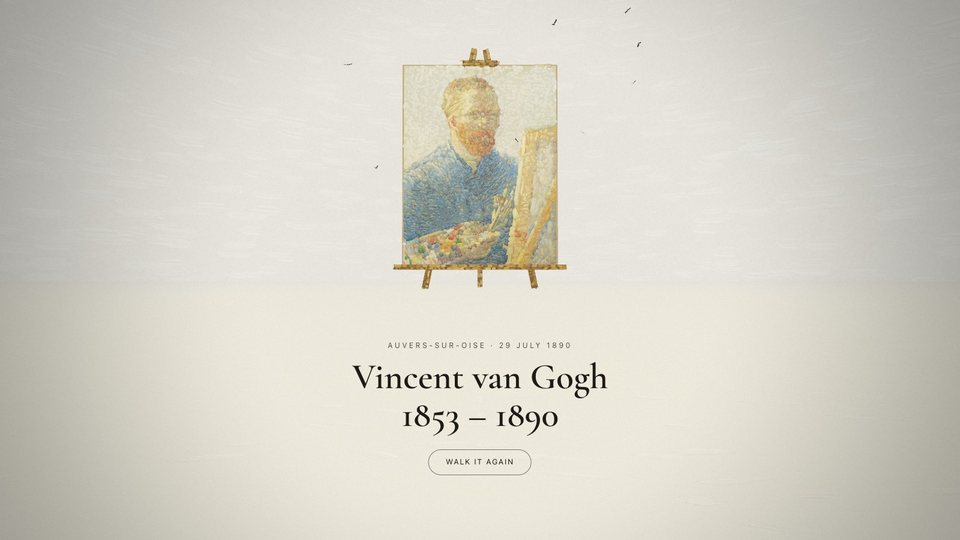
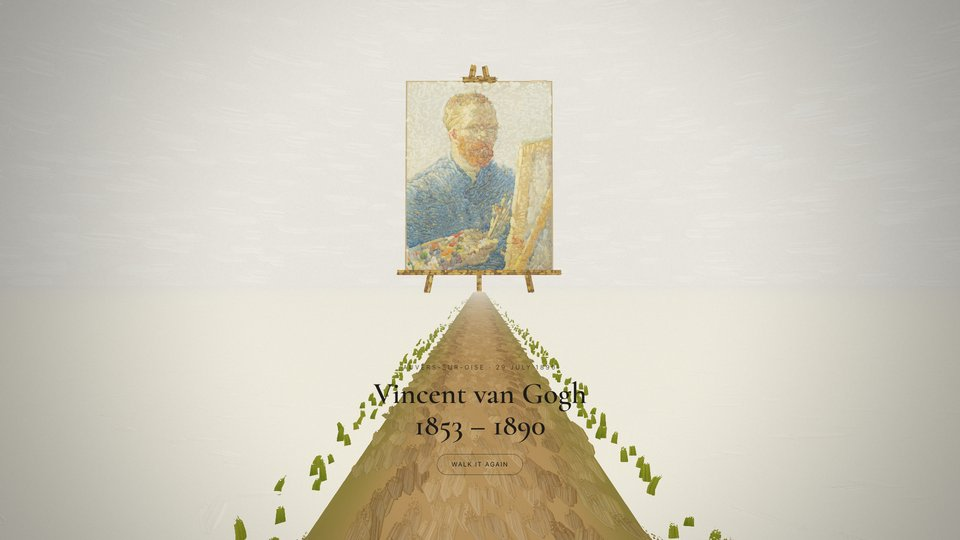
After M9: the road to him
The charcoal dashes to the portrait read as a trail of tar, not a way
to go. On the author's word there is a real road instead: the road of
the last field no longer dwindles into the bare canvas but goes on
across it, and from where the walk on its own stops it runs straight
on along its own line, where the easel already stood, to a round end
under the canvas. It is the ground's road, drawn as every station's
is: earth with worn marks, olive at its edges, a fringe of grass, and
bare canvas on either side. The dashes are taken out, and the frame of
the end in the README is shot again with the road in it.

Changed region(s): [[0.2812, 0.0889, 0.75, 1.0], [0.2188, 0.9481, 0.2812, 1.0]]

diff --git a/src/scenes.js b/src/scenes.js
@@ -2,7 +2,7 @@
 // in blossom, haystacks, the Yellow House, the café terrace and the gaslit
 // Rhône, the red vineyard, the cypress under the Starry Night, the church at
 // Auvers -- and at each station an easel, where his painting of the place will
-// paint itself. Past the end of the road there is one more easel, as tall as a
+// paint itself. At the end of the road there is one more easel, as tall as a
 // church tower, for his portrait.
 import * as THREE from 'three';
 import { StrokeBuilder, CoreBuilder } from './strokes.js';
@@ -323,10 +323,10 @@ function easelsAt(c, list) {
 }
 
 // ------------------------------------------------------------------ the coda --
-// His portrait at the end of the road. It stands past where the road runs out, beyond the bare canvas of the last
-// station, on the easel every station has, grown to hold a canvas as tall as a church tower. It is turned to face
-// the place where the walk on its own stops, and its timbers are the ochres of the easel in the portrait. It is a
-// mesh of its own, not the station's, because canvases.js says when it is there.
+// His portrait at the end of the road. It stands where the road ends, across the bare canvas of the last station, on
+// the easel every station has, grown to hold a canvas as tall as a church tower. It is turned to face the place where
+// the walk on its own stops, and its timbers are the ochres of the easel in the portrait. It is a mesh of its own,
+// not the station's, because canvases.js says when it is there.
 const EASEL = P(['#b8904e', '#a8844e', '#c8a060', '#9c7c4a', '#b89660', '#d0b078', '#8a6a40']);
 const EASEL_LIT = P(['#e0c488', '#e8d4a0', '#d8bc7c']), EASEL_CORE = lin('#6a5032');
 
@@ -356,8 +356,8 @@ function coda(c, cv) {
   const R = c.R, slug = cv.blob.split('/').pop().replace('-canvas.bin', '');
   const [rw, rh] = SIZES[slug] || [0.4945, 0.651];
   const H = cv.height, W = H * rw / rh, k = H / 2.3, ledge = 4, hw = 0.55;
-  // where the walk on its own stops, and which way it is looking there
-  const zv = J.ZEND + 4, xv = c.rx(zv), yv = Math.atan2(-J.roadSlope(zv), 1);
+  // where the walk on its own stops, and which way it is looking there: the way the road goes on, straight
+  const zv = J.ZSTRAIGHT, xv = c.rx(zv), yv = Math.atan2(-J.roadSlope(zv), 1);
   const z = zv - cv.beyond, x = xv + Math.tan(yv) * cv.beyond, yaw = Math.atan2(xv - x, zv - z);
   const cy = Math.cos(yaw), sy = Math.sin(yaw), nrm = [sy, 0, cy], right = [cy, 0, -sy];
   const b = c.gy(x, z), top = ledge + H + 0.3 * k;
@@ -375,26 +375,12 @@ function coda(c, cv) {
     const p = at(u, 0, v);
     c.colliders.push({ x: p[0], z: p[2], r: hw + 0.5 });
   }
-  // The line to him. The piece began on bare canvas with one charcoal line going forward, and the road dwindles to
-  // nothing coming onto this canvas; from where it does, the line goes on, along the road's own way to where the
-  // road ends and then straight to the foot of the easel, in short dashes laid by hand. It is the easel's, so it
-  // is there when the easel is, and it draws itself out towards him while the timbers stand up.
-  const foot = [x + nrm[0] * 7, z + nrm[2] * 7], way = [];
-  for (let zz = c.z0 - 2; zz > zv; zz -= 0.85) way.push([c.rx(zz), zz]);
-  const L = Math.hypot(foot[0] - xv, foot[1] - zv);
-  for (let t = 0; t < L; t += 0.85) way.push([xv + (foot[0] - xv) * t / L, zv + (foot[1] - zv) * t / L]);
-  const ink = P(['#3a3532', '#46403c', '#2e2a28']);
-  way.forEach(([px, pz], i) => {
-    if (i + 1 >= way.length || R() < 0.14) return;
-    const [qx, qz] = way[i + 1], d = norm3([qx - px, 0, qz - pz]), side = R.range(-0.05, 0.05);
-    const m = [(px + qx) / 2 - d[2] * side, c.gy((px + qx) / 2, (pz + qz) / 2) + 0.03, (pz + qz) / 2 + d[0] * side];
-    st.S.add(m, d, [0, 1, 0], R.range(0.45, 0.6), R.range(0.1, 0.13), jitter(R.pick(ink), R, 0.06),
-      { bend: R.range(-0.12, 0.12), order: 0.04 + 0.6 * i / way.length + R() * 0.02 });
-  });
   c.stand = st;
+  // the road runs on to it, straight, and ends under the canvas (the ground draws it; see journey.js)
   c.easels.push({ slug, blob: cv.blob, under: cv.blob.replace('.bin', '-under.png'), title: cv.title, date: cv.date,
     collection: cv.collection, key: `${c.i}-coda`, x, y: b + ledge + H / 2, z, yaw, w: W, h: H, station: c.i,
-    lift: 40, edge: k, grain: 0, gain: 1.1, stand: st, coda: { hold: cv.hold, paint: cv.paint, approach: cv.approach ?? 1, easel: 6, haze: 0.12, foot: 7 } });
+    lift: 40, edge: k, grain: 0, gain: 1.1, stand: st,
+    coda: { hold: cv.hold, paint: cv.paint, approach: cv.approach ?? 1, easel: 6, haze: 0.12, foot: 7, road: z } });
 }
 
 function haystack(c, x, z, R0 = 2.2, H = 3.2, o = {}) {

diff --git a/src/ground.js b/src/ground.js
@@ -49,7 +49,8 @@ const TERRAIN_FRAG = /* glsl */`
     float s = vS;
     float d = roadDist(p), rw = ROADW(s);
     vec3 c = vBase;
-    if (d < rw && WATER(s) * step(0.5, (roadX(p.y) - 13.0) - p.x) < 0.5) c = mix(ROAD(s), ROADEDGE(s), smoothstep(rw * 0.5, rw, d));
+    float road = d < rw && WATER(s) * step(0.5, (roadX(p.y) - 13.0) - p.x) < 0.5 ? 1.0 : 0.0;
+    if (road > 0.5) c = mix(ROAD(s), ROADEDGE(s), smoothstep(rw * 0.5, rw, d));
     float n = vnoise(p * 1.3) * 0.5 + vnoise(p * 0.37 + 7.0) * 0.5;
     c *= 0.84 + 0.26 * n;
     vec2 rel = p - uCam.xz; float rr = length(rel);
@@ -57,7 +58,8 @@ const TERRAIN_FRAG = /* glsl */`
       float sweep = vnoise(vec2(atan(rel.y, rel.x) * 70.0, log(rr + 1.0) * 10.0)) * 0.6 + vnoise(vec2(atan(rel.y, rel.x) * 150.0, log(rr + 1.0) * 23.0)) * 0.4;
       c *= mix(1.0, 0.72 + 0.56 * sweep, smoothstep(22.0, 70.0, rr));
     }
-    c = mix(c, LINEN, BARE(s));
+    // the bare canvas past the last field is bare but for the road, which goes on across it to his portrait
+    c = mix(c, LINEN, BARE(s) * (1.0 - road));
     if (uIntro < 1.0) c = mix(c, LINEN * (0.94 + 0.08 * n), smoothstep(pow(uIntro, 1.6) * 460.0 - 18.0, pow(uIntro, 1.6) * 460.0, rr));
     vec3 V = normalize(uCam - vP);
     vec3 col = paintShade(c, normalize(vN), V, vP, 0.0);
@@ -103,7 +105,9 @@ const BLADE_VERT = /* glsl */`
     }
     float cob = plaza * COBBLE(s);
     if (cob > 0.35) kind = -1.0;
-    if (fract(h.w * 13.7) < BARE(s)) kind = -1.0;
+    // on the bare canvas nothing grows but a fringe of grass along the road
+    float fringe = 1.0 - smoothstep(rw + 0.24, rw + 0.6, d);
+    if (fract(h.w * 13.7) < BARE(s) * (1.0 - 0.7 * fringe)) kind = -1.0;
     if (unrevealed(p, cam, h.w)) kind = -1.0;
     if (kind < 0.0 || fade < 0.01) { gl_Position = vec4(0.0, 0.0, 2.0, 1.0); return; }
     float r2 = fract(h.w * 7.31 + h.x * 3.7), r3 = fract(h.y * 5.3 + h.z * 1.9);
@@ -169,8 +173,10 @@ const FLAT_VERT = /* glsl */`
     if (uInner > 0.0) fade *= smoothstep(uInner * 0.75, uInner, cheb);
     float s = stationAt(p.y);
     float d = roadDist(p), rw = ROADW(s);
-    float bare = BARE(s);
-    if (fract(h.w * 17.3) < bare * 0.9 || fade < 0.01 || unrevealed(p, cam, h.z)) { gl_Position = vec4(0.0, 0.0, 2.0, 1.0); return; }
+    // on the bare canvas the marks are the canvas's own, few and the colour of the linen, and none lies across the
+    // road, whose marks are the road's
+    float bare = BARE(s) * step(rw, d), edge = 1.0 - step(rw + 0.42 * uScale, d);
+    if (fract(h.w * 17.3) < bare * (0.9 + 0.1 * edge) || fade < 0.01 || unrevealed(p, cam, h.z)) { gl_Position = vec4(0.0, 0.0, 2.0, 1.0); return; }
     vec4 crop = crops(p, s);
     float plaza = plazaMask(p, s), river = riverMask(p, s);
     vec2 dir; vec3 c; float emit = 0.0;
@@ -234,7 +240,9 @@ const FLAT_VERT = /* glsl */`
     vP = vec3(q.x, y, q.y);
     vT3 = vec3(dir.x, 0.0, dir.y); vB3 = vec3(side.x, 0.0, side.y);
     vST = aUV; vRow = floor(h.w * 7.99);
-    vCol = c; vCol2 = mix(c, C2(s) * 1.2, 0.35); vEmit = emit;
+    // the second colour in a mark is the station's; the bare canvas's is the linen, so the road's there is its verge's
+    vec3 c2 = mix(C2(s), ROADEDGE(s), BARE(s) * step(d, rw));
+    vCol = c; vCol2 = mix(c, c2 * 1.2, 0.35); vEmit = emit;
     gl_Position = projectionMatrix * viewMatrix * vec4(vP, 1.0);
   }
 `;

diff --git a/src/journey.js b/src/journey.js
@@ -13,8 +13,14 @@ export const NST = STATIONS.length;
 export const stationZ = i => Z1 - i * SPAN;
 export const ZEND = stationZ(NST - 1) - 34;
 
-export const roadX = z => 3.0 * Math.sin(z * 0.021) + 1.6 * Math.sin(z * 0.057 + 1.3);
-export const roadSlope = z => 0.063 * Math.cos(z * 0.021) + 0.0912 * Math.cos(z * 0.057 + 1.3);
+// the road winds, and from where the walk on its own stops it goes straight on along its own line, to the foot of
+// his portrait; the ground draws it as far as uRoadEnd
+export const ZSTRAIGHT = ZEND + 4;
+const windX = z => 3.0 * Math.sin(z * 0.021) + 1.6 * Math.sin(z * 0.057 + 1.3);
+const windSlope = z => 0.063 * Math.cos(z * 0.021) + 0.0912 * Math.cos(z * 0.057 + 1.3);
+const XS = windX(ZSTRAIGHT), SS = windSlope(ZSTRAIGHT);
+export const roadX = z => (z > ZSTRAIGHT ? windX(z) : XS + SS * (z - ZSTRAIGHT));
+export const roadSlope = z => (z > ZSTRAIGHT ? windSlope(z) : SS);
 // the red vineyard's canal, on the right of the road from 16 to 27 m out, wherever
 // a station's ground asks for one: its bed, and where its water lies
 export const CANAL = [16, 27];
@@ -72,6 +78,7 @@ const macros = ROWS.map(([ck, nk], r) =>
 
 export const TERRAIN = /* glsl */`
   uniform sampler2D uBiome;
+  uniform float uRoadEnd;
   #define Z1 ${Z1.toFixed(1)}
   #define SPAN ${SPAN.toFixed(1)}
   #define NSTI ${NST}
@@ -80,8 +87,9 @@ export const TERRAIN = /* glsl */`
     return mix(texelFetch(uBiome, ivec2(a, row), 0), texelFetch(uBiome, ivec2(b, row), 0), s - float(a));
   }
   ${macros}
-  float roadX(float z) { return 3.0 * sin(z * 0.021) + 1.6 * sin(z * 0.057 + 1.3); }
-  float roadSlope(float z) { return 0.063 * cos(z * 0.021) + 0.0912 * cos(z * 0.057 + 1.3); }
+  #define ZSTRAIGHT ${ZSTRAIGHT.toFixed(1)}
+  float roadX(float z) { return z > ZSTRAIGHT ? 3.0 * sin(z * 0.021) + 1.6 * sin(z * 0.057 + 1.3) : (${XS.toFixed(6)}) + (${SS.toFixed(7)}) * (z - ZSTRAIGHT); }
+  float roadSlope(float z) { return z > ZSTRAIGHT ? 0.063 * cos(z * 0.021) + 0.0912 * cos(z * 0.057 + 1.3) : (${SS.toFixed(7)}); }
   float canalBed(float u) { return smoothstep(${(CANAL[0] - 1.2).toFixed(1)}, ${CANAL[0].toFixed(1)}, u) * (1.0 - smoothstep(${CANAL[1].toFixed(1)}, ${(CANAL[1] + 1.2).toFixed(1)}, u)); }
   float stationAt(float z) {
     float s = (Z1 - z) / SPAN;
@@ -103,7 +111,8 @@ export const TERRAIN = /* glsl */`
     float hz = terrainH(p + vec2(0.0, e)) - terrainH(p - vec2(0.0, e));
     return normalize(vec3(-hx, 2.0 * e, -hz));
   }
-  float roadDist(vec2 p) { return abs(p.x - roadX(p.y)); }
+  // across the road; past its end, from the end, so that it stops in a round end
+  float roadDist(vec2 p) { return p.y < uRoadEnd ? length(vec2(p.x - roadX(uRoadEnd), p.y - uRoadEnd)) : abs(p.x - roadX(p.y)); }
   float plazaMask(vec2 p, float s) {
     float si = clamp(floor((Z1 - p.y) / SPAN + 0.5), 0.0, float(NSTI - 1));
     float zc = Z1 - si * SPAN;

diff --git a/src/main.js b/src/main.js
@@ -56,7 +56,7 @@ async function boot() {
     uLampPos: { value: [0, 1, 2, 3].map(() => new THREE.Vector4()) },
     uLampCol: { value: [0, 1, 2, 3].map(() => new THREE.Vector4()) },
     uBrush: { value: makeBrushAtlas() }, uBiome: { value: J.makeBiomeTexture() },
-    uNight: { value: 0 }, uIntro: { value: 0 },
+    uNight: { value: 0 }, uIntro: { value: 0 }, uRoadEnd: { value: J.ZEND },
   };
 
   const stations = await J.loadStations();
@@ -70,10 +70,11 @@ async function boot() {
   world.add(props.group);
   const paintings = new Paintings(U, stations, props.easels);
   world.add(paintings.group);
-  // the road ends 34 m past the last station, and the walk on its own stops there; his portrait stands beyond it,
-  // and a hand can take you up to it
+  // the walk on its own stops 30 m past the last station, and the road goes on from there to his portrait, where a
+  // hand can take you
   const coda = props.easels.find(e => e.coda);
   const zLast = coda ? coda.z + coda.coda.foot : J.ZEND + 4;
+  if (coda) U.uRoadEnd.value = coda.coda.road;
   const controls = new Controls(cv);
   const sound = new Sound(stations);
 

diff --git a/src/canvases.js b/src/canvases.js
@@ -185,7 +185,7 @@ export class Paintings {
     const k = lerp(0.62, 0.92, this.U.uNight.value) * (it.e.gain || 1);
     it.u.uKey.value.setRGB(1.0 * k, 0.88 * k, 0.7 * k);
   }
-  // The coda: his portrait past the end of the road, on the easel scenes.js builds for it. None of it is there
+  // The coda: his portrait at the end of the road, on the easel scenes.js builds for it. None of it is there
   // until you are on the bare canvas past the last field. Then the easel paints itself in, the canvas comes up
   // primed and is held, and he paints himself on it. All of it goes faster the nearer you are: from where it
   // begins it keeps its own time, and at its foot it runs `approach` times as fast, so that walking up to it

diff --git a/src/config.js b/src/config.js
@@ -213,10 +213,10 @@ export const STATIONS = [
     fog: '#e2dccc', fogDen: 0.01, fogStart: 10,
     ground: { c0: '#d6d0c0', c1: '#e0dacb', c2: '#e8e2d4',
       wheat: 0, wheatA: '#d0c8b8', wheatB: '#c8c0b0', tip: '#e0d8c8', wheatH: 0.3,
-      grass: 0, grassA: '#c8c0b0', grassB: '#d0c8b8', grassH: 0.2,
+      grass: 0, grassA: '#5a6436', grassB: '#707440', grassH: 0.16,
       furrow: 0, furrowA: '#d0c8b8', furrowB: '#d8d0c0',
       flower: 0, flowerA: '#d0c8b8', flowerB: '#d8d0c0',
-      road: '#2a2826', roadEdge: '#d0cabc', roadW: 0.06,
+      road: '#86705a', roadEdge: '#6a6448', roadW: 1.1,
       bare: 1, wind: 0, hill: 0, valley: 0, plaza: 6 },
     audio: { wind: 0.02 } },
 ];

diff --git a/tools/station.py b/tools/station.py
@@ -83,7 +83,7 @@ def main():
             print(f"  overlaps the station before it by {months(lo, prevhi) * 30.44:.0f} days"
                   f" -- the date on the band steps back here")
         prev, prevhi = lo, hi
-        # After M9 station 11 carries the coda: a canvas past the end of the road, with no share of tau and so no
+        # After M9 station 11 carries the coda: a canvas at the end of the road, with no share of tau and so no
         # span to be inside, but with a blob that has to be there and a count that has to be its blob's.
         coda = sn.get("coda")
         if coda:

diff --git a/BUILD.md b/BUILD.md
@@ -3550,3 +3550,84 @@ profile came back. The server's own log counted the scripts it sent.
 - **The underlayers and stroke records are not stamped**, as above.
 - **Only Chrome was run.** Safari and Firefox also keep an `immutable` copy without asking, and read import maps the
   same way, but neither was measured.
+
+### After M9 — The road to him
+
+**What was asked.** In the last scene the way to the portrait did not read as a road. From the bare canvas it was a
+trail of dark dashes running up to the easel's foot, like blots of tar. The author asked for a real road leading to the
+painting.
+
+**What was decided.**
+
+- **A road, not a line.** This reverses *The line to him*, which kept the bare canvas from becoming a place. On the
+  author's word it now has a road across it.
+- **The field's road goes on.** It no longer dwindles into the bare canvas. Over the last 36 m of the field, where the
+  ground turns to linen, it keeps its 2.2 m and turns from the wheatfield's rust and green to the bare canvas's road.
+- **Straight to him.** From where the walk on its own stops, 30 m past station 11's tick, the road runs straight on
+  along its own line. The easel already stood on that line, so it has not moved. The road ends in a round end under the
+  canvas, 80 m on.
+  - The line is one function for the land, the body and the drawing, in JavaScript and GLSL alike. So the land keeps
+    it past the end too, where nothing draws it.
+- **The ground draws it**, as it draws every station's road: the same marks laid along it, the same worn line down
+  each side, olive at its edges. Everywhere but the road, the bare canvas is linen as before.
+- **Earth, with a fringe of grass.** The road is `#86705a`, its edges `#6a6448`, and a few olive blades, 8 to 21 cm
+  tall, grow within 0.6 m of it. Nothing else grows on the bare canvas.
+  - The wheatfield's own rust and green came first. Under station 11's white light the road was tomato red between
+    two bright green hedges, and the end card's dark letters sat on red.
+  - Then eight palettes, set at run time. Ochres and cream went yellow through the grade, and the darker rusts still
+    darkened the card. The earth reads as a dirt road and leaves the card legible.
+  - With grass to 1.7 m out, as the stations' verges have, it was a hedge on bare canvas. With no grass it was a ribbon
+    laid on the canvas. A fringe within 0.6 m, with seven blades in ten kept, reads as grass at a road's edge.
+- **Two things on the road were the bare canvas's.** Its linen marks lay across the road's edges and read as tears;
+  none lies within reach of the edge now (0.42 m near, 1.39 m in the far field, whose marks are larger). And a mark's
+  second colour, which is the station's, was the linen, so the road's marks carried pale flakes. On the bare canvas
+  the road's marks take their edge colour instead.
+- **The dashes are gone** from the easel's mesh.
+
+**What changed.**
+
+- `src/journey.js`: `ZSTRAIGHT`, and the road straight on from it, in both `roadX` and `roadSlope`. `roadDist` ends
+  the road at `uRoadEnd`.
+- `src/ground.js`: the linen leaves the road; the fringe; no linen marks across the road; the road's second colour.
+- `src/config.js`: station 11's road, its edges and its width, and its grass.
+- `src/scenes.js`: the line is taken out; the coda's easel says where the road ends, and stands on `ZSTRAIGHT`'s line.
+- `src/main.js`: `uRoadEnd`, from the coda.
+- `stations/s11-after.json`: `_ground`, `_coda` and `_schema`.
+- DESIGN.md, README.md, `src/canvases.js` and `tools/station.py`: the portrait stands at the end of the road, not past
+  it. README.md says where the walk on its own stops.
+- `docs/the-end.jpg`: shot again from where the walk on its own stops. The old frame still had the crows.
+
+**How it was verified.** Headless Chrome, `?at=11&painted`, in frames from:
+
+- the last of the field, 50 m and 35 m before the tick;
+- where `?at=11` starts, and the tick;
+- where the walk on its own comes to rest, with the end card up;
+- 45 m from the canvas;
+- 9 m from the canvas, near the walk's limit, looking down at the road's end;
+- 12 m out, looking up at him, and 8 m out, looking back down the road;
+- past the tick, looking back at the field.
+
+What they showed:
+
+- From the field the road runs on into the blank. Once you are on the bare canvas the easel paints itself in at its
+  end.
+- From the tick and from where the walk stops, it runs to the foot of the easel. There it ends under the canvas,
+  between the front legs, with the grass going round the end.
+- Looking back, it winds away to the field.
+- The end card over the road, at 1920 × 1080: the name, the dates and the button read clearly. The small line above
+  the name crosses the grass at both its ends.
+- Stations 1, 6, 7 and 10, from HEAD and from this change, at the same place with the clock frozen. Station 1 is the
+  same to within one level. In 6, 7 and 10 his line from the letters is at a different point of fading in, and in 10
+  the road now carries on at the horizon. Nothing else differs.
+- The coda's easel is 1,263 marks, from 1,358: the line was 95 dashes. The easel stands where it stood.
+- `tools/station.py` exits 0. No exceptions, errors or warnings.
+
+**Still visible.**
+
+- **The road is there before the easel is.** The line came with the easel. The road is the ground's, so coming out of
+  the field it leads into the blank for a while, until the easel paints itself in at its end.
+- **The walk on its own stops where it did**, 84 m from the canvas, with the whole canvas in view. The last 77 m of
+  the road are walked by hand.
+- **From the tick, 110 m off, the road's far end is pale in the station's haze.** The portrait keeps a haze of its own
+  and is not.
+- **Measured headless on this machine only.** A phone was not checked, and the frame rate was not measured.

diff --git a/DESIGN.md b/DESIGN.md
@@ -28,8 +28,8 @@
 >
 > **The coda, on the author's word.** Then the author asked for the walk to end on *Self-Portrait as a Painter*, as a
 > tribute to him: a giant portrait at the end of the last scene. §15 had left the coda open between nothing and the
-> canvases in their museums, and M8 built the nothing. The answer is neither: it is the painter. Past the end of the
-> road, beyond station 11's bare canvas, his portrait stands 36 m tall on the easel every station has, scaled to hold
+> canvases in their museums, and M8 built the nothing. The answer is neither: it is the painter. At the end of the
+> road, across station 11's bare canvas, his portrait stands 36 m tall on the easel every station has, scaled to hold
 > it. It paints itself from its own stroke record once you are there, and the end card waits for it. `BUILD.md`
 > records it.
 
@@ -611,7 +611,7 @@ it is **does this have a stroke system worth standing inside.** That admits the 
 which are not places at all, and it lets us drop the geographic filler that a promenade would have needed.
 
 ```
-                     his portrait, as a painter, past the end of the road   (added after M9)
+                     his portrait, as a painter, at the end of the road     (added after M9)
                                         bare primed canvas, and the crows
                                                     ▲
                             [10] THE WHEATFIELD — 27 July 1890
@@ -655,7 +655,7 @@ which are not places at all, and it lets us drop the geographic filler that a pr
 | 8 | **Saint-Rémy** | 1889 | The walled garden, *Irises* as the literal ground at your feet — he painted them in that garden. Then the window, and the night: **The Starry Night as a sky, overhead, each spiral turning along its own curl.** Cypresses. Olive groves where the ground itself writhes. The summit of the piece, and the reason to lie down. | lifted + shelled |
 | 9 | **Auvers** | May–Jul 1890 | Descend into cool green and grey-blue. Thatch, *Daubigny's Garden*, the church with its two paths splitting around it. The canvases go double-square here (50 × 100 cm) — so **the frame of the world itself widens**, which the viewer will feel and not notice. | lifted |
 | 10 | **The wheatfield** | 27 Jul 1890 | Three paths. Crows — the only living creatures in the universe, and if the viewer looks back they have been in the corner of the eye since Arles. The rush with no holds. Then the strokes stop arriving and you are standing on bare primed canvas with the field behind you. | lifted |
-| 11 | **After** | — | Nothing, held far too long. Then the crows again, and the end. After M9, on the author's word, the road ends at his portrait: *Self-Portrait as a Painter*, 36 m tall on a giant easel past the bare canvas, painting itself; and then, on the author's word again, the crows of this station are gone, and the sky over him is empty. | — (the coda added after M9) |
+| 11 | **After** | — | Nothing, held far too long. Then the crows again, and the end. After M9, on the author's word, the road ends at his portrait: *Self-Portrait as a Painter*, 36 m tall on a giant easel past the bare canvas, painting itself; and then, on the author's word again, the crows of this station are gone, and the sky over him is empty. Last, on the author's word, the road of the last field goes on across the bare canvas to his feet. | — (the coda added after M9) |
 
 *M3 builds station 4 and the treatment column moves for it: **lifted**, not shelled. Shelled is per-stroke depth and
 that is M4's; what M3 establishes is that the lifted treatment is not a fallback but the thing the canvas can
@@ -1211,7 +1211,7 @@ Van Gogh universe/
   position, and leaves the museum coda unbuilt. BUILD M8 says the decision is made there; it is the author's, and it
   is asked for rather than assumed.*
   *After M9 the author decided it, and the answer is neither of the two: the walk ends on the painter. His*
-  Self-Portrait as a Painter *stands past the end of the road, giant, and paints itself; what is left of the nothing
+  Self-Portrait as a Painter *stands at the end of the road, giant, and paints itself; what is left of the nothing
   is the blank canvas held before it. `BUILD.md`, after M9, records it.*
 - **Where the room came from, and whether authoring it is enough.** *Opened at M5. `tools/room.py` cannot recover a
   vanishing point from either the stroke record or the scan's own line segments, and says precisely what that would

diff --git a/README.md b/README.md
@@ -24,7 +24,7 @@ with three.js from a CDN and no build step.
   <img src="docs/opening.jpg" width="49%" alt="The opening: The Starry Night painting itself on a primed canvas, above the title Van Gogh's Universe.">
   <img src="docs/painting-itself.jpg" width="49%" alt="Sunflowers on its easel by the Yellow House, partway through painting itself: its first strokes laid over bare linen.">
   <img src="docs/red-vineyard.jpg" width="49%" alt="The red vineyard: red rows on either side of a violet road with puddles of yellow light, under a low sun in a yellow sky, with his canvas on an easel.">
-  <img src="docs/the-end.jpg" width="49%" alt="The end: his Self-Portrait as a Painter on a giant easel past the end of the road, above the words Vincent van Gogh, 1853 to 1890.">
+  <img src="docs/the-end.jpg" width="49%" alt="The end: his Self-Portrait as a Painter on a giant easel at the end of the road, above the words Vincent van Gogh, 1853 to 1890.">
 </p>
 
 ## Run it
@@ -65,8 +65,8 @@ gets a smaller budget and two-thumb controls, but no real phone has been measure
 | Full screen | F | the full-screen button |
 
 The walk on its own keeps to the road: drag to look around and it walks on regardless. ← → steer it off the
-road, and once let go it finds the road again. It slows at every place and stops where the road ends. The last
-eighty metres, up to the portrait, are for a hand.
+road, and once let go it finds the road again. It slows at every place and stops eighty metres short of the portrait,
+with the whole of it in view. The rest of the road, up to it, is for a hand.
 
 The 1× button in the corner, or X, sets the walking speed. Every way of walking, the walk on its own included,
 goes one and a half, two or three times as fast, and turning does not. On its own the whole road takes about seven
@@ -89,7 +89,7 @@ from his letters is up for eight of its twelve seconds.
 | 8 | Saint-Rémy: the cypress and the village under *The Starry Night*, olive trees, irises | May–November 1889 | *Irises*, *The Starry Night*, *Olive Grove* | 782, to Theo |
 | 9 | Auvers-sur-Oise: thatch, gardens, the church | May–July 1890 | *The Church at Auvers*, *Thatched Cottages at Cordeville*, *Daubigny's Garden*, *Stairway at Auvers*, *Wheatfield under Thunderclouds* | 879, to Willemien |
 | 10 | The wheatfield above the village, in the wind, with crows | July 1890 | *Wheatfield with Crows* | 898, to Theo and Jo |
-| 11 | After: bare primed canvas, and past the end of the road his portrait | | *Self-Portrait as a Painter*, 36 m tall | |
+| 11 | After: bare primed canvas, and the road across it to his portrait | | *Self-Portrait as a Painter*, 36 m tall | |
 
 Seven canvases stand at a place outside their own dates. The *Sunflowers* at the Yellow House is the Van Gogh
 Museum's version of January 1889, for example, and *Wheatfield with a Reaper* is Saint-Rémy's. Each has a note in its
